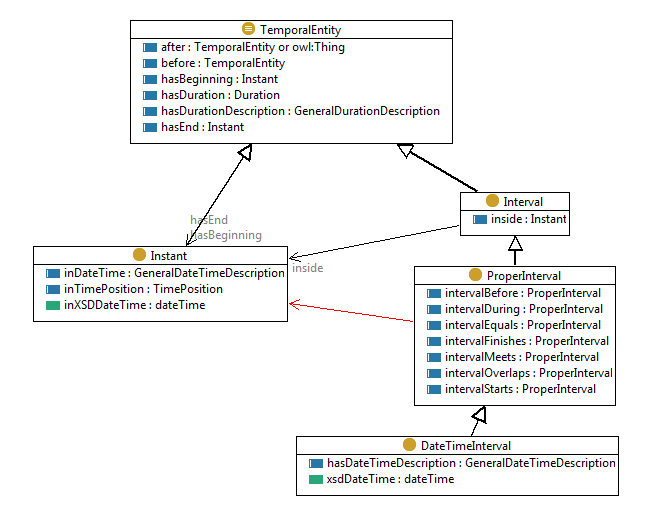
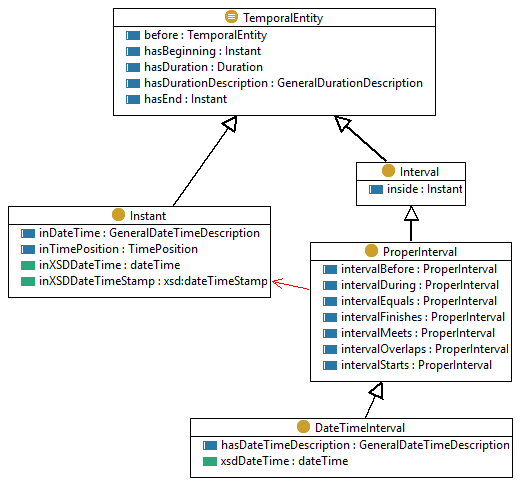
Added time:inXSDDateTimeStamp property

Changed region(s): [[0.0305, 0.0, 0.9771, 0.9856]]

diff --git a/index.html b/index.html
@@ -598,7 +598,7 @@ temporal extent in a calendar-clock system. </p>
 </tr>
 </tbody>
 </table>
-<p>Three properties, <code><a href="#time:inXSDDateTime">:inXSDDateTime</a></code>, <a href="time:inTimePosition"><code><a href="#time:inTimePosition">:inTimePosition</a></code></a>, and <code><a href="#time:inDateTime">:inDateTime</a></code>
+<p>Four properties, <code><a href="#time:inXSDDateTime">:inXSDDateTime</a></code>, <code><a href="#time:inXSDDateTimeStamp">:inXSDDateTimeStamp</a></code>, <a href="time:inTimePosition"><code><a href="#time:inTimePosition">:inTimePosition</a></code></a>, and <code><a href="#time:inDateTime">:inDateTime</a></code>
 provide alternative ways to describe the temporal position of an <code><a href="#time:Instant">:Instant</a></code>. </p>
 
 <h4 id="time:Interval">Interval</h4>
@@ -830,6 +830,7 @@ systems (i.e. ordered sequence of named intervals, not necessarily of equal dura
 <code><a href="#time:inTimePosition">:inTimePosition</a></code> |
 <code><a href="#time:inDateTime">:inDateTime</a></code> |
 <code><a href="#time:inXSDDateTime">:inXSDDateTime</a></code> |
+<code><a href="#time:inXSDDateTimeStamp">:inXSDDateTime</a></code> |
 <code><a href="#time:minute">:minute</a></code> |
 <code><a href="#time:minutes">:minutes</a></code> |
 <code><a href="#time:month">:month</a></code> |
@@ -1680,12 +1681,41 @@ before the end of T<sub>2</sub>. </td>
 <td>Range:</td>
 <td><code>xsd:dateTime</code></td>
 </tr>
+<tr>
+<td>Deprecated:</td>
+<td><code>true</code></td>
+</tr>
 </tbody>
 </table>
-<p class="issue" data-number="125">(Was local Issue 8) <code><a href="#time:inXSDDateTime">time:inXSDDateTime</a></code> uses <code>xsd:dateTime</code> which was available in OWL v1. The datatype <code>xsd:dateTimeStamp</code>,
-which makes the timezone element mandatory instead of optional, was added in OWL2. Should anything be added to
-OWL-Time to allow for this? Need to balance backward compatibility concerns. See SDWWG requirement 
+
+<h4 id="time:inXSDDateTimeStamp">inXSDDateTimeStamp</h4>
+<table class="definition" style="width: 812px;">
+<tbody>
+<tr>
+<th style="width: 120px;">RDF Property:</th>
+<th><code><a href="#time:inXSDDateTimeStamp">time:inXSDDateTimeStamp</a></code></th>
+</tr>
+<tr>
+<td>Definition:</td>
+<td>Position of an instant, expressed using xsd:dateTimeStamp, in which the time-zone field is mandatory</td>
+</tr>
+<tr>
+<td>Instance of:</td>
+<td><code>owl:DatatypeProperty</code></td>
+</tr>
+<tr>
+<td>Domain:</td>
+<td><code><a href="#time:Instant">time:Instant</a></code></td>
+</tr>
+<tr>
+<td>Range:</td>
+<td><code>xsd:dateTimeStamp</code></td>
+</tr>
+</tbody>
+</table>
+<p class="issue" data-number="125">(Was local Issue 8) <code><a href="#time:inXSDDateTime">time:inXSDDateTime</a></code> uses <code>xsd:dateTime</code> which was available in OWL v1. The datatype <code>xsd:dateTimeStamp</code>, makes the timezone element mandatory instead of optional, was added in OWL2. Use of <code>xsd:dateTimeStamp</code> is recommended. <code><a href="#time:inXSDDateTime">time:inXSDDateTime</a></code> is retained for backward-compatibility, but marked 'deprecated'. See SDWWG requirement 
 <a href="http://www.w3.org/TR/sdw-ucr/#UpdateDatatypes">5.58 Update datatypes in OWL Time</a></p>
+
 
 <h4 id="time:minute">minute</h4>
 <table class="definition" style="width: 812px;">
@@ -3011,9 +3041,14 @@ OrdinaryMail) can be defined similarly.</p>
       <td><code><a href="#time:GeneralDateTimeDescription">:GeneralDateTimeDescription</a></code></td>
     </tr>
     <tr>
-      <td><code><a href="#time:inXSDDateTime">:inXSDDateTime</a></code></td>
+      <td><code><a href="#time:inXSDDateTime">:inXSDDateTime</a></code> (<i>deprecated</i>)</td>
       <td><code><a href="#time:Instant">:Instant</a></code></td>
       <td><code>xsd:dateTime</code></td>
+    </tr>
+    <tr>
+      <td><code><a href="#time:inXSDDateTime">:inXSDDateTimeStamp</a></code></td>
+      <td><code><a href="#time:Instant">:Instant</a></code></td>
+      <td><code>xsd:dateTimeStamp</code></td>
     </tr>
     <tr>
       <td><code><a href="#time:numericDuration">:numericDuration</a></code></td>
